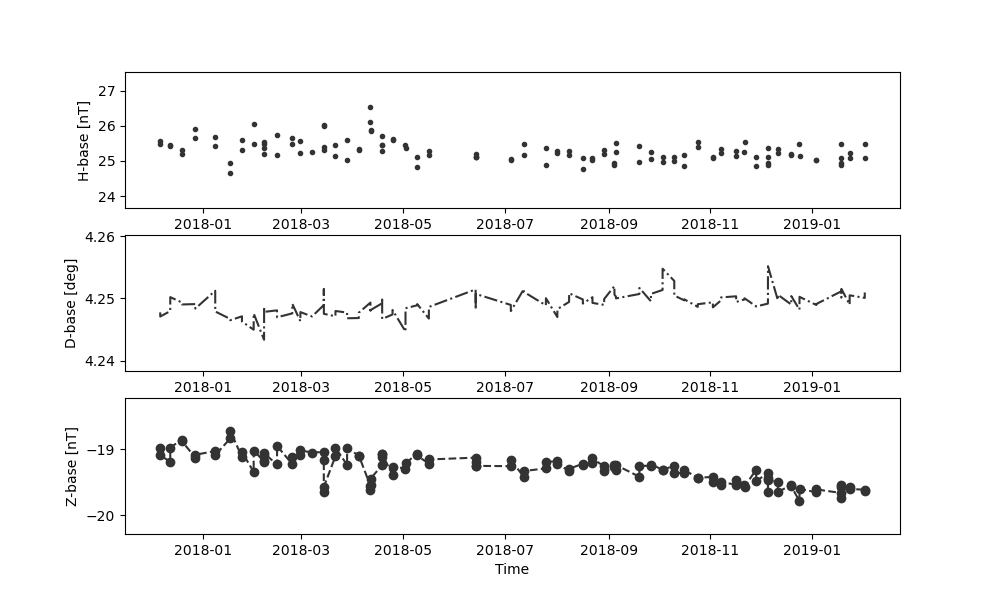
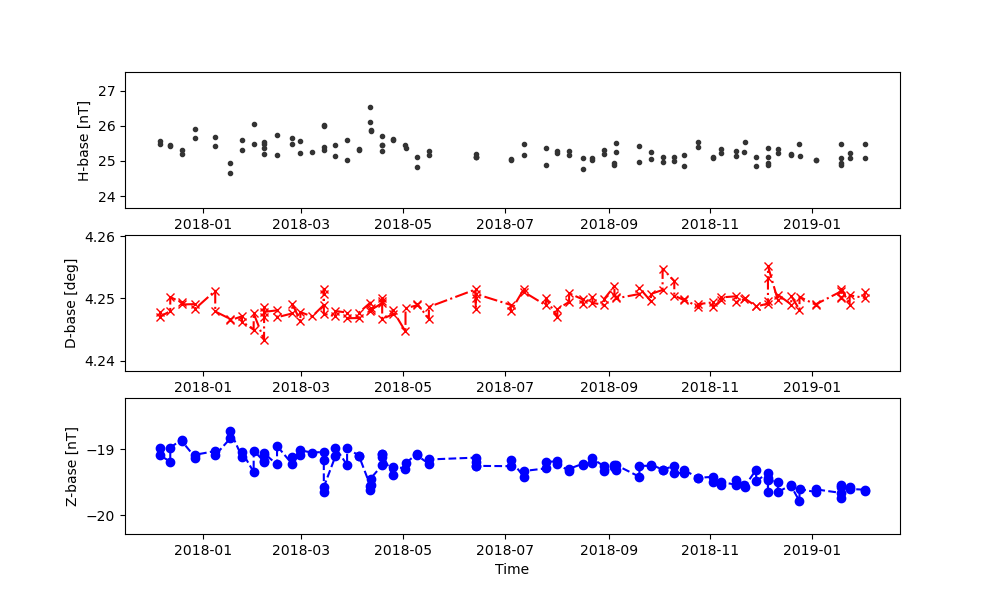
corrected window error in flagging and color mode in tsplot

Changed region(s): [[0.155, 0.72, 0.868, 0.84], [0.155, 0.45, 0.868, 0.57]]

diff --git a/magpy/core/plot.py b/magpy/core/plot.py
@@ -64,7 +64,7 @@ def fill_list(mylist, target_len, value):
 
 
 def tsplot(data=[DataStream()], keys=[['dummy']], timecolumn=['time'], xrange=None, yranges=None, padding=None,
-           symbols=None, symbolcolor=[[0.8, 0.8, 0.8]], title=None, xinds=[None], legend={}, grid={}, patch={},
+           symbols=None, colors=None, title=None, xinds=[None], legend={}, grid={}, patch={},
            fill=None, showpatch=[True], errorbars=None, functions=None, functionfmt="r-", xlabelposition=None,
            ylabelposition=None, yscale=None, dateformatter=None, force=False, width=10, height=4, alpha=0.5,
            variables=None, debug=False):
@@ -78,7 +78,7 @@ def tsplot(data=[DataStream()], keys=[['dummy']], timecolumn=['time'], xrange=No
         keys (list)         :    default are the first three av[]ailable keys of the first data set. If only keys for the first data set are given, then an overlay plot is activated
                                  If all keys are provided then all plots are plotted separately.
         symbols (list)      :    default "-" : define plot symbols - accpeted are "-",".","o" and "k"
-        symbolcolor (list)  :    default is light grey : defines the color of all individual plots of each datastream
+        colors (list)       :    default is light grey : defines the color of all individual plots of each datastream
         timecolumn (list)   :    default None : define the used time column - can be time or sectime (if existing)
         yranges (list)      :    default None : define individual ranges for y axes - overrides padding
                                  EXAMPLE: keys=[['x','y'],['f']], yranges=[[[20000,22000],[-1000,1000]],[[44000,54000]]]
@@ -107,7 +107,7 @@ def tsplot(data=[DataStream()], keys=[['dummy']], timecolumn=['time'], xrange=No
                                  EXAMPLE: keys=[['x','y'],['var1']], functions=[[func1,[]],[func2]]
         functionfmt(string) :    Default "r-" for all functions
         xlabelposition (dict) :    default none - if defined then all xlabels are configured as follows
-                                 EXAMPLE: TODO
+                                 EXAMPLE: not yet implemented
         ylabelposition (float) :    default none - if defined then all ylabels are set to this x position
                                  EXAMPLE: ylabelposition=-0.1
         ysacle (string)     :    'linear' (default), 'log'
@@ -156,6 +156,8 @@ def tsplot(data=[DataStream()], keys=[['dummy']], timecolumn=['time'], xrange=No
         separate = True
     if not symbols:
         symbols = [["-" for el in line] for line in keys]
+    if not colors:
+        colors = [[[0.8, 0.8, 0.8] for el in line] for line in keys]
     if not yranges:
         yranges = [[["default", "default"] for el in line] for line in keys]
     if yscale and not isinstance(yscale, (list, tuple)):
@@ -164,11 +166,11 @@ def tsplot(data=[DataStream()], keys=[['dummy']], timecolumn=['time'], xrange=No
         yscale = [["linear" for el in line] for line in keys]
     keys = fill_list(keys, amount, keys[-1])
     symbols = fill_list(symbols, amount, symbols[-1])
+    colors = fill_list(colors, amount, colors[-1])
     yscale = fill_list(yscale, amount, yscale[-1])
     yranges = fill_list(yranges, amount, yranges[-1])
     timecolumn = fill_list(timecolumn, amount, timecolumn[-1])
     showpatch = fill_list(showpatch, amount, showpatch[-1])
-    symbolcolor = fill_list(symbolcolor, amount, symbolcolor[-1])
     xinds = fill_list(xinds, amount, xinds[-1])
     if not title:
         title = [None]
@@ -234,6 +236,10 @@ def tsplot(data=[DataStream()], keys=[['dummy']], timecolumn=['time'], xrange=No
                 # Symbols and color
                 # ------------------
                 symbol = symbols[idx][i]
+                try:
+                    color = colors[idx][i]
+                except:
+                    color = [0.8, 0.8, 0.8]
                 if symbol == "k":
                     # special symbol for K values
                     diffs = (np.asarray(t[1:].astype(datetime64) - t[:-1].astype(datetime64)) / 1000000.).astype(
@@ -248,7 +254,7 @@ def tsplot(data=[DataStream()], keys=[['dummy']], timecolumn=['time'], xrange=No
                                  bartrange], [0, 0, comp[num] + 0.1, comp[num] + 0.1],
                                 facecolor=cm.RdYlGn((9 - comp[num]) / 9., 1), alpha=alpha, edgecolor='k')
                     symbol = "|"
-                    symbolcolor[idx] = None
+                    color = None
                     yranges[idx][i] = [0, 9]
                 # Fill between graphs
                 # ------------------
@@ -267,7 +273,7 @@ def tsplot(data=[DataStream()], keys=[['dummy']], timecolumn=['time'], xrange=No
                                 indi = np.where(comp > boundary, True, False)
                             else:
                                 indi = np.where(comp < boundary, True, False)
-                            ax.fill_between(t, comp, boundary, color=fillcolor, alpha=alpha, where=indi)
+                            ax.fill_between(t, comp, boundary, color=fillcolor, alpha=fillalpha, where=indi)
                 # Error bars
                 # ------------------
                 if errorbars:
@@ -275,11 +281,11 @@ def tsplot(data=[DataStream()], keys=[['dummy']], timecolumn=['time'], xrange=No
                     if errordict and isinstance(errordict, dict):
                         yerr = dat._get_column(errordict.get('key'))
                         if len(yerr) > 0:
-                            errorcolor = errordict.get('color', symbolcolor[idx])
+                            errorcolor = errordict.get('color', color)
                             capsize = errordict.get('capsize', 3)
                             marker = errordict.get('marker', '.')
                             linestyle = errordict.get('linestyle', '-')
-                            plt.errorbar(t, comp, yerr=yerr, linestyle=linestyle, marker=marker, color=symbolcolor[idx],
+                            plt.errorbar(t, comp, yerr=yerr, linestyle=linestyle, marker=marker, color=color,
                                          capsize=capsize, ecolor=errorcolor)
                 # Plot the main graph
                 # ------------------
@@ -289,7 +295,7 @@ def tsplot(data=[DataStream()], keys=[['dummy']], timecolumn=['time'], xrange=No
                     mincomp = 0
                     maxcomp = 1
                 else:
-                    plt.plot(t, comp, symbol, color=symbolcolor[idx])
+                    plt.plot(t, comp, symbol, color=color)
                     mincomp = np.nanmin(comp)
                     maxcomp = np.nanmax(comp)
                 # plt.hlines(0,t[0],t[-1])

diff --git a/magpy/core/flagging.py b/magpy/core/flagging.py
@@ -1523,7 +1523,7 @@ def flag_outlier(data, keys=None, threshold=1.5, timerange=None, markall=False, 
         window = 600.
     else:
         window = timerange / sr
-    if window:
+    if datawindow:
         print ("overriding timerange/sampling rate related window size and using {} succesive data points as window length".format(datawindow))
         window = datawindow
     if debug:

diff --git a/README.md b/README.md
@@ -863,35 +863,39 @@ option is applied to key y, the E component, and defines everything above 0 to b
 be filled blue. The transparency *alpha* is set to 0.5. ![4.2.2](./magpy/doc/pl_422.png "A plot with more options")
 
 It is recommended to use the list type parameters even when loading a single data set, at least when using more complex
-options. This will help to provide the parameters correctly. In the following example we open a single basevalue data
-set and demonstrate the usage of different plot *symbols*, *symbolcolors*, and *padding*. Padding defines scale
+options. This will help to provide the parameters correctly. 
+
+### 4.4 Symbols and colors
+
+In the following example we open a single basevalue data
+set and demonstrate the usage of different plot *symbols*, *colors*, and *padding*. Padding defines scale
 extensions for the y scale which would typically use maximum and minimum values from data.
 
         basevalue = read(example3)
-        fig,ax = mp.tsplot([basevalue],[['dx','dy','dz']], symbols=[['.','-.','--o']], 
-                    symbolcolor=[[0.2, 0.2, 0.2],'r','b'], padding=[[1,0.005,0.5]], height=2)
+        fig,ax = mp.tsplot([data],[['dx','dy','dz']], symbols=[['.','-.x','--o']], 
+                    colors=[[[0.2, 0.2, 0.2],'r','blue']], padding=[[1,0.005,0.5]], height=2)
 
 This will produce this plot: ![4.2.3](./magpy/doc/pl_423.png "Symbols and colors")
 
 In a next example we will plot the H components of three observatories. For this we load data from the USGS webservice.
 
         data1 = read("https://geomag.usgs.gov/ws/data/?id=BOU")
-        data2 = read("https://geomag.usgs.gov/ws/data/?id=SIT")
-        data3 = read("https://geomag.usgs.gov/ws/data/?id=NEW")
-        fig,ax = mp.tsplot([data1,data2,data3], [['x'],['x'],['x']], symbolcolor=['g','r','b'], legend=True, height=2)
+        data2 = read("https://geomag.usgs.gov/ws/data/?id=NEW")
+        data3 = read("https://geomag.usgs.gov/ws/data/?id=SIT")
+        fig,ax = mp.tsplot([data1,data2,data3],[['x'],['x'],['x']],colors=[['g'],['r'],['b']],legend=True,height=2)
 
 The obtained plot show the data on similar timescales below each other. ![4.2.4](./magpy/doc/pl_424.png "Geomag")
 If you want to plot them in a single diagram then just define a single key value.
 
-        fig,ax = mp.tsplot([data1,data2,data3], [['x']], symbolcolor=['g','r','b'],
+        fig,ax = mp.tsplot([data1,data2,data3], [['x']], colors=[['g'],['r'],['b']],
                     legend={"legendtext":('BOU', 'SIT', 'NEW')}, height=2)
 
 ![4.2.5](./magpy/doc/pl_425.png "Geomag in a single plot")
 
 
-### 4.4 Patches, annotations and functions in tsplot
+### 4.5 Patches, annotations and functions in tsplot
 
-Patches are used to mark certain regions within the plot. A patch is described within a python dictionary as shown in 
+Patches are used to mark certain regions within the plot. A patch is described as a python dictionary as shown in 
 this example:
 
         patch = {"ssc" : {"start":datetime(2024,5,10,17,6),"end":datetime(2024,5,10,17,8),"components":"x","color":"red","alpha":0.2},
@@ -900,14 +904,16 @@ this example:
                 "recovery": {"start":datetime(2024,5,11,2,0),"end":datetime(2024,5,12,11),"components":"x","color":"green","alpha":0.2}}
         fig,ax = mp.tsplot([variometer,dst], keys=[['x'],['var1']], patch=patch, height=2)
 
-Patches are also used to mark flags as shown in section 6 and in further examples below. 
-Several examples on how to plot functions in addition to data is shown in section 5.9.
+Patches are also used to mark flags as shown in section 6 and in further examples in sections 5 and 8. 
+
+Functions are discussed in section 5.9. There you will also find numerous examples on how to plot these functions
+along with data.
 
 
-### 4.5 Other plots
+### 4.6 Other plots
 
 Frequency plots can be constructed using matplotlib build in methods and some examples are provided in section 5.
-Stereo diagrams are on the TODO list for a future version of MagPy. 
+Stereo diagrams will be added in a future version of MagPy. 
 
 ## 5. Timeseries methods
 
@@ -1432,7 +1438,9 @@ files) are available in the header. Access it as follows:
 
         blvdata = read(example7)
         func = blvdata.header.get('DataFunctionObject')
-        mp.tsplot([blvdata],[['dx','dy','dz']], symbols=[['.','.','.']], padding=[[2,0.005,2]], symbolcolor=[[0.5, 0.5, 0.5]], functions=[[func,func,func]], height=2)
+        fig, ax = mp.tsplot([blvdata],[['dx','dy','dz']], symbols=[['.','.','.']], padding=[[0.005,0.005,2]], 
+                             colors=[[[0.5, 0.5, 0.5],[0.5, 0.5, 0.5],[0.5, 0.5, 0.5]]], functions=[[func,func,func]], 
+                             height=2)
 
 
 #### 5.9.5 Applying functions to timeseries
@@ -1724,7 +1732,7 @@ the "disturbed" data set.
 
 Show original data in red and cleand data in grey in a single plot:
 
-        mp.tsplot([datawithspikes,datawithoutspikes],['x','y','z'], symbolcolors=['r','grey'])
+        mp.tsplot([datawithspikes,datawithoutspikes],[['x','y','z']], colors=[['r','r','r'],['grey','grey','grey']])
 
 This results in Figure ![6.2.](./magpy/doc/fl_outlier.png "Removing outlier from data")
 
@@ -1985,20 +1993,22 @@ to the observer for final verification.
 Assigning flag labels without AI can be done by the flag_ultra probability technique. This is only useful for 
 testing purposes.  
 
-TODO - Import modules:
+Please note: the following example will not work. It is here just to demonstrate the general application. Flag_bot is
+currently under development:
 
         from magpy.stream import *
         from magpy.core import plot as mp
         from magpy.core import flagging
 
         data = read(example1)
-        fl = flag_ultra(data)
+        fl = flagging.flag_ultra(data)
 
         cleandata = fl.apply_flags(data, mode='drop')
 
 Show original data in red and cleand data in grey in a single plot:
 
-        mp.tsplot([data,cleandata],['x','y','z'], symbolcolors=['r','grey'])
+        mp.tsplot([data,cleandata],[['x','y','z']], colors=[['r','r','r'],['grey','grey','grey']])
+
 
 
 ## 7. DI-flux measurements, basevalues and baselines
@@ -2599,7 +2609,7 @@ baseline adoption.
 
 Please import activity related functionality to enable the methods shown below:
 
-        (jnmagpy)$ from magpy.core import activity as act
+        from magpy.core import activity as act
 
 ### 8.1 Determination of K indices
 
@@ -2613,12 +2623,11 @@ at least three subsequent days of data. The first and last day of the sequence w
 The datas et need to contain X,Y and Z components of which X and Y are analyzed. You can use
 MagPy's timeseries methods to transform your data sets accordingly if needed. 
 
-A month of one minute data is provided in `example2`, which corresponds to an [INTERMAGNET] IAF archive file. Reading
-a file in this format will load one minute data by default. Accessing hourly data and other information is described
-below.
+A week of one second data is provided in `example4`. We will filter this data set to one-minute resolution first. 
+Accessing hourly data and other information is described below.
 
-        data2 = read(example2)
-
+        data = read(example4)
+        data2 = data.filter()
         kvals = act.K_fmi(data2)
 
 The output of the K_fmi method is a DataStream object which contains timesteps and K values associated with the 'var1'
@@ -2627,7 +2636,8 @@ key.
 For plotting we provide x and y components of magnetic data as well as the Kvalue results. The additional options
 determine the appearance of the plot (limits, bar chart):
 
-        p = tsplot([data2,kvals],keys=[['x','y'],['var1']], labelx=-0.08, symbols=[["-","-"],["k"]], title="K value plot", symbolcolor=[[0.5, 0.5, 0.5]], patch=patch, showpatch=[True,False], grid=True,height=2)
+        p,ax = mp.tsplot([data2,kvals],keys=[['x','y'],['var1']], ylabelposition=-0.08, symbols=[["-","-"],["k"]], 
+                          title="K value plot", colors=[[[0.5, 0.5, 0.5],[0.5, 0.5, 0.5]],['r']], grid=True, height=2)
 
 `'k'` in `symbols` refers to the second subplot (K), which will then be plotted as bars rather than the standard
 line (`'-'`).
